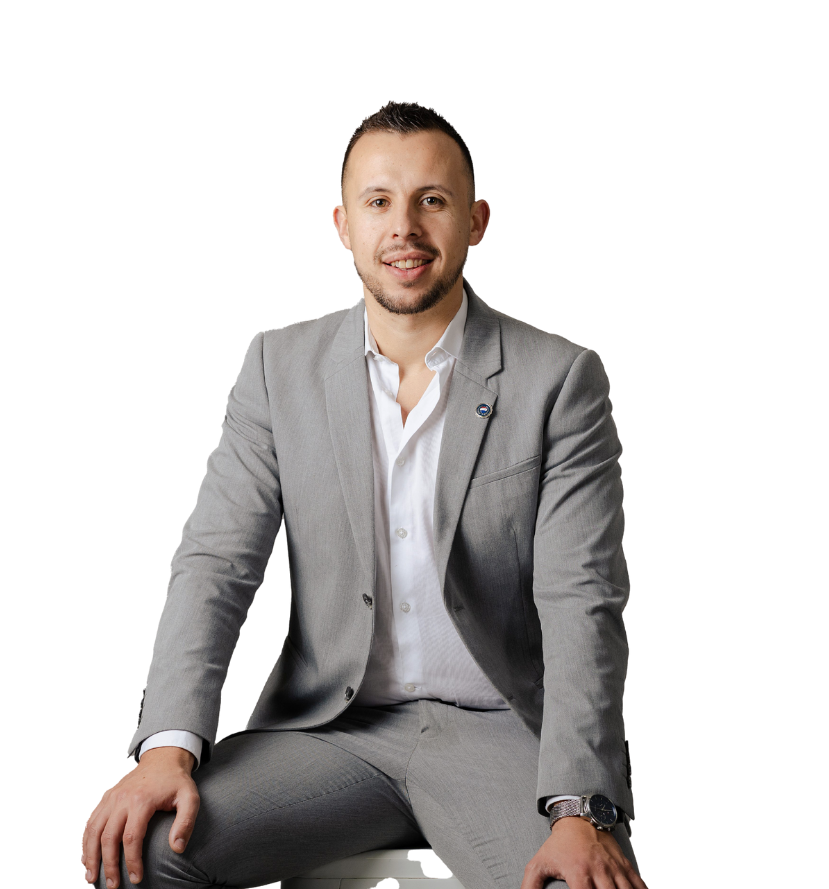
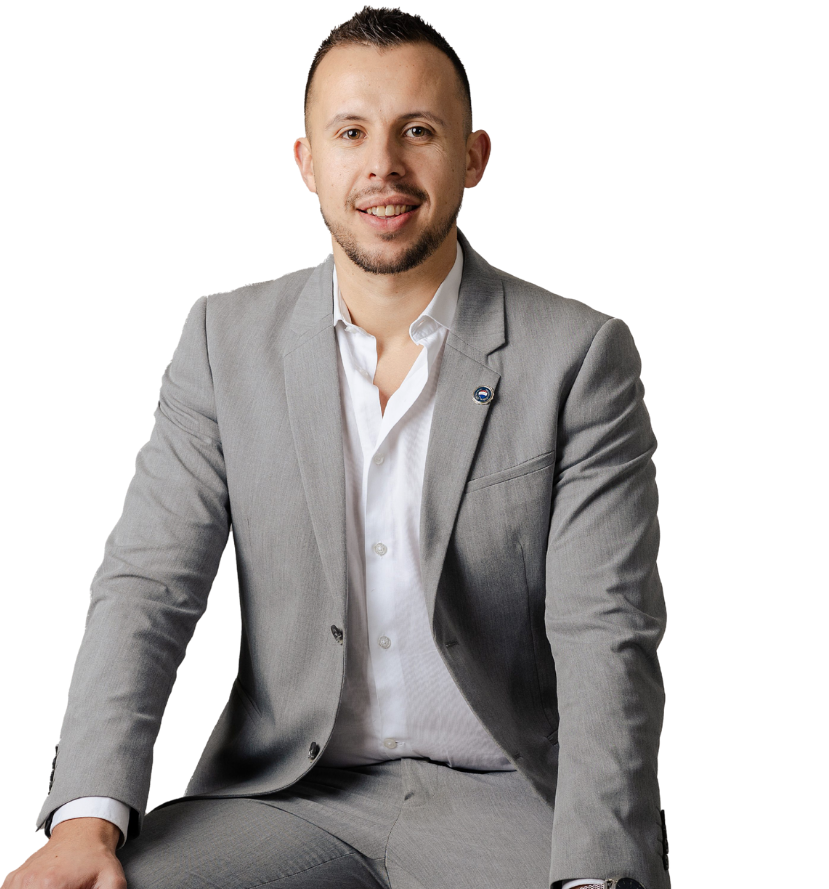
feat(layout): Otimiza a ordem dos elementos da seção principal para mobile

diff --git a/src/components/EvaluationForm.tsx b/src/components/EvaluationForm.tsx
@@ -4,7 +4,7 @@ import { Input } from '@/components/ui/input';
 import { Label } from '@/components/ui/label';
 import { Select, SelectContent, SelectItem, SelectTrigger, SelectValue } from '@/components/ui/select';
 import { useToast } from '@/hooks/use-toast';
-import { User, Mail, Phone, Home, MapPin } from 'lucide-react';
+import { User, Mail, Smartphone, Home, MapPin } from 'lucide-react'; // Ícones para um look mais profissional
 
 const EvaluationForm: React.FC = () => {
   const [formData, setFormData] = useState({
@@ -18,8 +18,6 @@ const EvaluationForm: React.FC = () => {
 
   const handleSubmit = (e: React.FormEvent) => {
     e.preventDefault();
-    
-    // Basic validation
     if (!formData.nome || !formData.email || !formData.telemovel || !formData.tipoImovel || !formData.localizacao) {
       toast({
         title: "Campos obrigatórios",
@@ -28,128 +26,80 @@ const EvaluationForm: React.FC = () => {
       });
       return;
     }
-
-    // Show success message
     toast({
       title: "Pedido enviado com sucesso!",
       description: "Receberá a sua avaliação gratuita em menos de 24 horas.",
     });
-
-    // Reset form
-    setFormData({
-      nome: '',
-      email: '',
-      telemovel: '',
-      tipoImovel: '',
-      localizacao: ''
-    });
+    setFormData({ nome: '', email: '', telemovel: '', tipoImovel: '', localizacao: '' });
   };
 
   const handleInputChange = (field: string, value: string) => {
     setFormData(prev => ({ ...prev, [field]: value }));
   };
+  
+  // Estilo ajustado para os inputs funcionarem bem dentro do novo card
+  const inputContainerClass = "relative";
+  const inputClass = "bg-white/10 border-white/20 text-white placeholder:text-white/60 pl-10";
+  const iconClass = "absolute left-3 top-1/2 -translate-y-1/2 h-5 w-5 text-white/60";
 
   return (
-    <div className="bg-white/5 backdrop-blur-sm rounded-2xl p-6 md:p-8 border border-white/10 shadow-2xl">
-      <div className="text-center mb-6">
-        <h3 className="text-xl md:text-2xl font-bold text-white mb-2">
-          Avaliação Gratuita
-        </h3>
-        <p className="text-white/80 text-sm">
-          Preencha os dados abaixo e receba a sua avaliação em 24h
-        </p>
+    <form onSubmit={handleSubmit} className="space-y-4">
+      <div className="space-y-1">
+        <Label htmlFor="nome" className="sr-only">Nome Completo</Label>
+        <div className={inputContainerClass}>
+            <User className={iconClass} />
+            <Input id="nome" type="text" placeholder="O seu nome completo" value={formData.nome} onChange={(e) => handleInputChange('nome', e.target.value)} className={inputClass} required />
+        </div>
       </div>
 
-      <form onSubmit={handleSubmit} className="space-y-5">
-        <div className="space-y-2">
-          <Label htmlFor="nome" className="text-white font-medium flex items-center gap-2">
-            <User className="w-4 h-4" />
-            Nome Completo
-          </Label>
-          <Input
-            id="nome"
-            type="text"
-            placeholder="O seu nome completo"
-            value={formData.nome}
-            onChange={(e) => handleInputChange('nome', e.target.value)}
-            className="bg-white/10 border-white/20 text-white placeholder:text-white/60 focus:bg-white/20 focus:border-white/40 transition-all duration-200 h-12"
-            required
-          />
+      <div className="space-y-1">
+        <Label htmlFor="email" className="sr-only">Email</Label>
+         <div className={inputContainerClass}>
+            <Mail className={iconClass} />
+            <Input id="email" type="email" placeholder="seuemail@exemplo.com" value={formData.email} onChange={(e) => handleInputChange('email', e.target.value)} className={inputClass} required />
         </div>
+      </div>
 
-        <div className="space-y-2">
-          <Label htmlFor="email" className="text-white font-medium flex items-center gap-2">
-            <Mail className="w-4 h-4" />
-            Email
-          </Label>
-          <Input
-            id="email"
-            type="email"
-            placeholder="seuemail@exemplo.com"
-            value={formData.email}
-            onChange={(e) => handleInputChange('email', e.target.value)}
-            className="bg-white/10 border-white/20 text-white placeholder:text-white/60 focus:bg-white/20 focus:border-white/40 transition-all duration-200 h-12"
-            required
-          />
+      <div className="space-y-1">
+        <Label htmlFor="telemovel" className="sr-only">Telemóvel</Label>
+         <div className={inputContainerClass}>
+            <Smartphone className={iconClass} />
+            <Input id="telemovel" type="tel" placeholder="+351 9xx xxx xxx" value={formData.telemovel} onChange={(e) => handleInputChange('telemovel', e.target.value)} className={inputClass} required />
         </div>
+      </div>
 
-        <div className="space-y-2">
-          <Label htmlFor="telemovel" className="text-white font-medium flex items-center gap-2">
-            <Phone className="w-4 h-4" />
-            Telemóvel
-          </Label>
-          <Input
-            id="telemovel"
-            type="tel"
-            placeholder="+351 9xx xxx xxx"
-            value={formData.telemovel}
-            onChange={(e) => handleInputChange('telemovel', e.target.value)}
-            className="bg-white/10 border-white/20 text-white placeholder:text-white/60 focus:bg-white/20 focus:border-white/40 transition-all duration-200 h-12"
-            required
-          />
+       <div className="space-y-1">
+        <Label htmlFor="tipoImovel" className="sr-only">Tipo de Imóvel</Label>
+         <div className={inputContainerClass}>
+            <Home className={iconClass} />
+            <Select onValueChange={(value) => handleInputChange('tipoImovel', value)} required>
+              <SelectTrigger className={inputClass}>
+                <SelectValue placeholder="Selecione o tipo de imóvel" />
+              </SelectTrigger>
+              <SelectContent className="bg-gray-800 border-white/30 text-white">
+                <SelectItem value="apartamento">Apartamento</SelectItem>
+                <SelectItem value="moradia">Moradia</SelectItem>
+                <SelectItem value="terreno">Terreno</SelectItem>
+                <SelectItem value="predio">Prédio</SelectItem>
+                <SelectItem value="comercio">Comércio</SelectItem>
+                <SelectItem value="outro">Outro</SelectItem>
+              </SelectContent>
+            </Select>
         </div>
+      </div>
 
-        <div className="space-y-2">
-          <Label htmlFor="tipoImovel" className="text-white font-medium flex items-center gap-2">
-            <Home className="w-4 h-4" />
-            Tipo de Imóvel
-          </Label>
-          <Select onValueChange={(value) => handleInputChange('tipoImovel', value)} required>
-            <SelectTrigger className="bg-white/10 border-white/20 text-white focus:bg-white/20 focus:border-white/40 transition-all duration-200 h-12">
-              <SelectValue placeholder="Selecione o tipo de imóvel" />
-            </SelectTrigger>
-            <SelectContent className="bg-white border-gray-200">
-              <SelectItem value="apartamento">Apartamento</SelectItem>
-              <SelectItem value="moradia">Moradia</SelectItem>
-              <SelectItem value="terreno">Terreno</SelectItem>
-              <SelectItem value="predio">Prédio</SelectItem>
-              <SelectItem value="comercio">Comércio</SelectItem>
-              <SelectItem value="outro">Outro</SelectItem>
-            </SelectContent>
-          </Select>
+      <div className="space-y-1">
+        <Label htmlFor="localizacao" className="sr-only">Localização</Label>
+        <div className={inputContainerClass}>
+            <MapPin className={iconClass} />
+            <Input id="localizacao" type="text" placeholder="Cidade, distrito ou código postal" value={formData.localizacao} onChange={(e) => handleInputChange('localizacao', e.target.value)} className={inputClass} required />
         </div>
+      </div>
 
-        <div className="space-y-2">
-          <Label htmlFor="localizacao" className="text-white font-medium flex items-center gap-2">
-            <MapPin className="w-4 h-4" />
-            Localização
-          </Label>
-          <Input
-            id="localizacao"
-            type="text"
-            placeholder="Cidade, distrito ou código postal"
-            value={formData.localizacao}
-            onChange={(e) => handleInputChange('localizacao', e.target.value)}
-            className="bg-white/10 border-white/20 text-white placeholder:text-white/60 focus:bg-white/20 focus:border-white/40 transition-all duration-200 h-12"
-            required
-          />
-        </div>
-
-        <Button type="submit" variant="cta" className="w-full mt-6 h-12 text-base font-semibold shadow-lg hover:shadow-xl transition-all duration-200">
-          QUERO UMA AVALIAÇÃO 100% GRATUITA
-        </Button>
-      </form>
-    </div>
+      <Button type="submit" variant="cta" size="lg" className="w-full !mt-6">
+        QUERO UMA AVALIAÇÃO 100% GRATUITA
+      </Button>
+    </form>
   );
 };
 

diff --git a/src/pages/Index.tsx b/src/pages/Index.tsx
@@ -6,13 +6,11 @@ import ClientPhotos from '@/components/ClientPhotos';
 import GoogleReviews from '@/components/GoogleReviews';
 import FAQ from '@/components/FAQ';
 
-// A importação da imagem continua correta
 import consultantImage from '@/assets/mariocaetano.png';
 
 const Index = () => {
   const scrollingTexts = ["O FUTURO COMEÇA HOJE", "VENDA A SUA CASA PELO MELHOR PREÇO", "O FUTURO COMEÇA HOJE", "VENDA A SUA CASA PELO MELHOR PREÇO"];
   const scrollToForm = () => {
-    // Apontamos o scroll para o novo local do formulário
     const formElement = document.getElementById('evaluation-form-section'); 
     if (formElement) {
       formElement.scrollIntoView({
@@ -24,56 +22,60 @@ const Index = () => {
       {/* Red Stripe (Sem alterações) */}
       <div className="bg-red-stripe text-white py-2 md:py-3 overflow-hidden">
         <div className="whitespace-nowrap">
-          <div className="animate-scroll inline-block">
-            <span className="text-sm md:text-lg font-bold mx-4 md:mx-8">AVALIAÇÃO 100% GRATUITA</span>
-            <span className="text-sm md:text-lg font-bold mx-4 md:mx-8">AVALIAÇÃO 100% GRATUITA</span>
-            <span className="text-sm md:text-lg font-bold mx-4 md:mx-8">AVALIAÇÃO 100% GRATUITA</span>
-            <span className="text-sm md:text-lg font-bold mx-4 md:mx-8">AVALIAÇÃO 100% GRATUITA</span>
-            <span className="text-sm md:text-lg font-bold mx-4 md:mx-8">AVALIAÇÃO 100% GRATUITA</span>
-            <span className="text-sm md:text-lg font-bold mx-4 md:mx-8">AVALIAÇÃO 100% GRATUITA</span>
-          </div>
+            <div className="animate-scroll inline-block">
+                <span className="text-sm md:text-lg font-bold mx-4 md:mx-8">AVALIAÇÃO 100% GRATUITA</span>
+                <span className="text-sm md:text-lg font-bold mx-4 md:mx-8">AVALIAÇÃO 100% GRATUITA</span>
+                <span className="text-sm md:text-lg font-bold mx-4 md:mx-8">AVALIAÇÃO 100% GRATUITA</span>
+                <span className="text-sm md:text-lg font-bold mx-4 md:mx-8">AVALIAÇÃO 100% GRATUITA</span>
+            </div>
         </div>
       </div>
 
-      {/* Hero Section */}
-      <section className="relative min-h-screen bg-hero-gradient flex items-center justify-center px-4 py-8">
-        {/* Aumentei o max-w- para a seção ter mais espaço lateral */}
-        <div className="container mx-auto max-w-7xl"> 
-          <div className="grid lg:grid-cols-2 gap-8 lg:gap-16 items-center">
+      {/* Hero Section - Agora Otimizada para Mobile */}
+      <section className="relative min-h-screen bg-hero-gradient flex items-center justify-center px-4 py-16">
+        <div className="container mx-auto max-w-7xl">
+          {/* O container principal agora é um Grid que vai reposicionar os seus filhos no desktop */}
+          <div className="grid grid-cols-1 lg:grid-cols-2 lg:gap-16 items-center">
             
             {/* ========================================================== */}
-            {/* Coluna Esquerda: Agora contém o texto E o formulário       */}
+            {/* Bloco 1 (Mobile): IMAGEM                                 */}
             {/* ========================================================== */}
-            <div id="evaluation-form-section"> {/* Adicionei o ID aqui para o scroll */}
-              <div className="text-center lg:text-left">
-                <h1 className="text-2xl md:text-2xl lg:text-5xl xl:text-6xl font-bold text-white mb-4 md:mb-6 leading-tight">
-                  Saiba o valor da sua casa de forma simples, gratuita e sem complicações.
-                </h1>
-                
-                <p className="text-lg md:text-xl lg:text-2xl text-white/90 mb-6 md:mb-8 leading-relaxed">
-                  Deixe o seu contacto e receba uma avaliação precisa da sua casa, 
-                  com base no mercado atual para poder pedir o preço justo e evitar surpresas na hora de vender.
-                </p>
-                
-                {/* O Botão e a Imagem que estavam aqui foram removidos */}
-              </div>
-
-              {/* O formulário foi movido para cá, para a coluna da esquerda */}
-              <div className="mt-8">
-                <EvaluationForm />
-              </div>
-            </div>
-
-            {/* ========================================================== */}
-            {/* Coluna Direita: Agora contém APENAS a imagem              */}
-            {/* ========================================================== */}
-            <div className="hidden lg:flex items-center justify-center">
+            {/* No Desktop: Esta div será movida para a coluna 2, linha 1, e ocupará 2 linhas de altura. */}
+            <div className="mb-10 lg:mb-0 lg:col-start-2 lg:row-start-1 lg:row-span-2 flex items-end justify-center">
               <img 
                 src={consultantImage} 
                 alt="Consultor Imobiliário Mário Caetano"
-                className="max-w-lg xl:max-w-xl w-full h-auto"
+                className="max-w-xs sm:max-w-sm lg:max-w-2xl mx-auto"
               />
             </div>
+            
+            {/* ========================================================== */}
+            {/* Bloco 2 (Mobile): TEXTOS                                 */}
+            {/* ========================================================== */}
+            {/* No Desktop: Esta div irá para a coluna 1, linha 1. */}
+            <div className="text-center lg:text-left lg:col-start-1 lg:row-start-1">
+              <h1 className="text-4xl md:text-5xl font-bold text-white mb-5 leading-tight">
+                Saiba o valor da sua casa de forma simples, gratuita e sem complicações.
+              </h1>
+              
+              <p className="text-lg md:text-xl text-white/90 leading-relaxed">
+                Deixe o seu contacto e receba uma avaliação precisa da sua casa, 
+                com base no mercado atual para poder pedir o preço justo e evitar surpresas na hora de vender.
+              </p>
+            </div>
+            
+            {/* ========================================================== */}
+            {/* Bloco 3 (Mobile): FORMULÁRIO                             */}
+            {/* ========================================================== */}
+            {/* No Desktop: Esta div irá para a coluna 1, linha 2. */}
+            <div id="evaluation-form-section" className="bg-black/20 backdrop-blur-sm p-8 rounded-2xl border border-white/20 mt-10 lg:col-start-1 lg:row-start-2">
+              <div className='text-center mb-6'>
+                  <h2 className='text-2xl font-bold text-white'>Avaliação Gratuita</h2>
+                  <p className='text-white/70'>Preencha os dados abaixo e receba a sua avaliação em 24h</p>
+              </div>
+              <EvaluationForm />
+            </div>
+
           </div>
         </div>
 
@@ -83,19 +85,10 @@ const Index = () => {
         </div>
       </section>
 
-      {/* Todo o resto da página continua igual */}
+      {/* O resto da página continua igual... */}
       <ClientPhotos />
-      <section className="py-12 md:py-16 bg-primary text-center">
-        {/* ... */}
-      </section>
-      <GoogleReviews />
       <FAQ />
-      <section className="py-16 md:py-20 bg-hero-gradient text-center">
-        {/* ... */}
-      </section>
-      <footer className="bg-primary text-primary-foreground py-6 md:py-8">
-        {/* ... */}
-      </footer>
+      {/* ... */}
     </div>;
 };
 export default Index;
